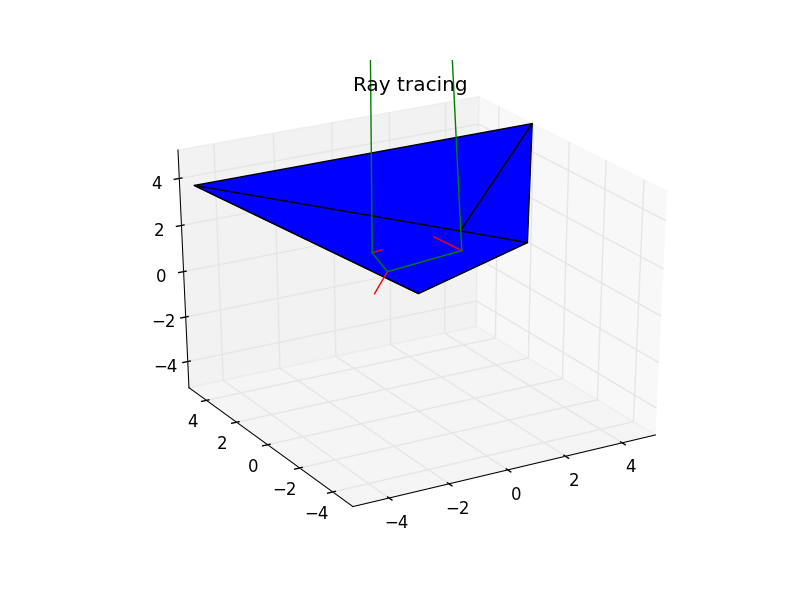
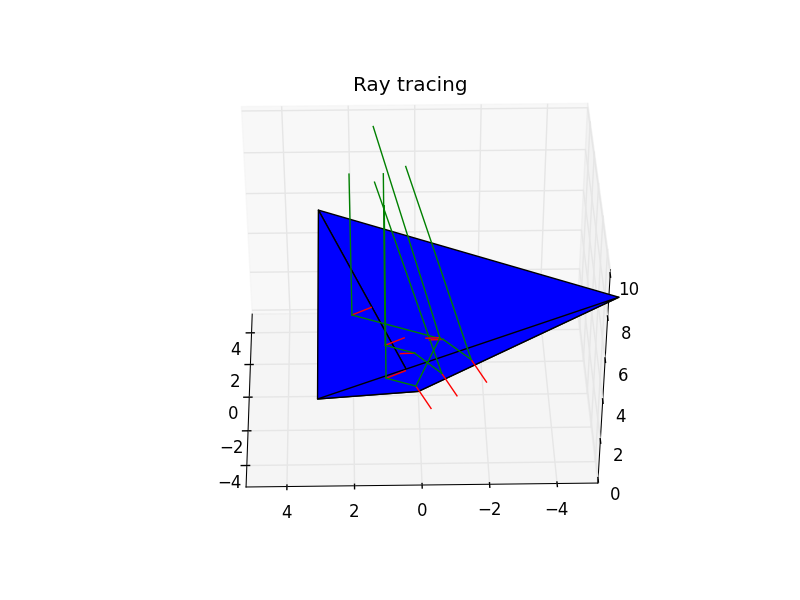
Ray tracing simulation example for cornercube is updated.

diff --git a/source/lib/example.py b/source/lib/example.py
@@ -21,23 +21,27 @@ def example_of_ray_tracing_3():
     ray               = odak.raytracing()
     pitch             = 10
     cornercube        = ray.plotcornercube(0,0,0,pitch)
-    vector            = ray.createvector((1,2,10),(90,90,0))
-    rayslist          = []
-    distance          = 2
-    rayslist.append(vector)
-    for rays in rayslist:
-        if len(rayslist) > 3:
-            rays[1] = -rays[1]
-            ray.plotvector(rays,10)
-            break
-        for points in cornercube:
-            distance,normvec = ray.findintersurface(rays,(points[0],points[1],points[2]))
-            if ray.isitontriangle(normvec[0],points[0],points[1],points[2]) == True:
-                ray.plotvector(normvec,pitch/10,'r')
-                ray.plotvector(rays,distance)
-                reflectvector = ray.reflect(rays,normvec)
-                rayslist.append(reflectvector)
-    ray.defineplotshape((-20,20),(-20,20),(-20,20))
+    vector0           = ray.createvector((1,2,10),(90,90,0))
+    vector1           = ray.createvector((1,1,10),(90,90,0))
+    vector2           = ray.createvector((-1,1,10),(90,90,0))
+    vectorlist        = [vector0,vector1,vector2]
+    for vectors in vectorlist:
+        rayslist          = []
+        distance          = 2
+        rayslist.append(vectors)
+        for rays in rayslist:
+            if len(rayslist) > 3:
+                rays[1] = -rays[1]
+                ray.plotvector(rays,10)
+                break
+            for points in cornercube:
+                distance,normvec = ray.findintersurface(rays,(points[0],points[1],points[2]))
+                if ray.isitontriangle(normvec[0],points[0],points[1],points[2]) == True:
+                    ray.plotvector(normvec,pitch/10,'r')
+                    ray.plotvector(rays,distance)
+                    reflectvector = ray.reflect(rays,normvec)
+                    rayslist.append(reflectvector)
+    ray.defineplotshape((-5,5),(-5,5),(0,10))
     ray.showplot()
     return True
 
